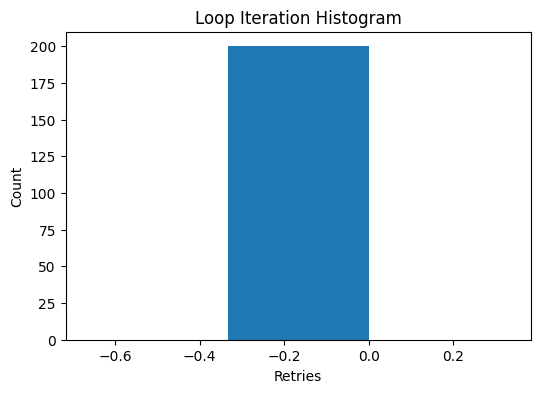
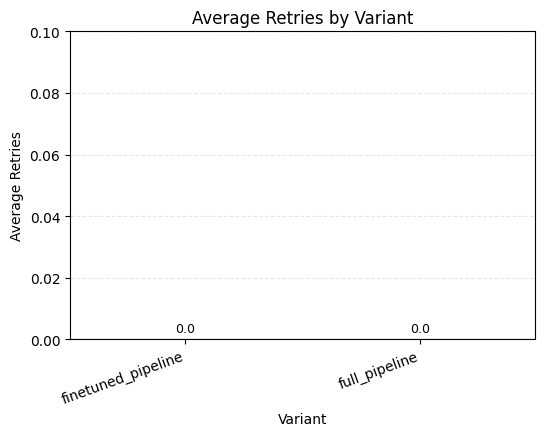
changes plot

diff --git a/src/evaluation/plot_results.py b/src/evaluation/plot_results.py
@@ -114,28 +114,57 @@ def _plot_bertscore_distribution(model_free: pd.DataFrame, bert: pd.DataFrame) -
 
 def _plot_loop_iterations(model_free: pd.DataFrame, summary: pd.DataFrame) -> None:
     fig, ax = plt.subplots(figsize=(6, 4))
-    retry_col = "avg_retries" if "avg_retries" in model_free.columns else "retry_count" if "retry_count" in model_free.columns else None
-
-    if retry_col is not None:
-        retry_values = pd.to_numeric(model_free[retry_col], errors="coerce").dropna()
-        if not retry_values.empty:
-            ax.hist(retry_values, bins=max(int(retry_values.max()) + 3, 1), align="left")
-            ax.set_title("Loop Iteration Histogram")
-            ax.set_xlabel("Retries")
-            ax.set_ylabel("Count")
-            fig.savefig(FIGURES / "loop_iterations.png", bbox_inches="tight")
-            plt.close(fig)
-            return
-
     frame = _summary_metric_frame(summary, ["avg_retries"])
     if not frame.empty:
-        ax.bar(frame["variant"], frame["avg_retries"])
+        frame = frame.sort_values("variant")
+        bars = ax.bar(frame["variant"], frame["avg_retries"], color="#4C72B0")
+        for bar, value in zip(bars, frame["avg_retries"].tolist()):
+            ax.annotate(
+                f"{value:.1f}",
+                (bar.get_x() + bar.get_width() / 2, max(bar.get_height(), 0.0)),
+                ha="center",
+                va="bottom",
+                fontsize=9,
+                xytext=(0, 3),
+                textcoords="offset points",
+            )
         ax.set_title("Average Retries by Variant")
         ax.set_xlabel("Variant")
         ax.set_ylabel("Average Retries")
+        ax.set_ylim(0, max(0.1, float(frame["avg_retries"].max()) + 0.1))
+        ax.axhline(0, color="black", linewidth=0.8)
+        ax.grid(axis="y", linestyle="--", alpha=0.3)
         plt.xticks(rotation=20, ha="right")
     else:
-        ax.set_title("Average Retries by Variant")
+        retry_col = "avg_retries" if "avg_retries" in model_free.columns else "retry_count" if "retry_count" in model_free.columns else None
+        if retry_col is not None:
+            retry_values = pd.to_numeric(model_free[retry_col], errors="coerce").dropna()
+            if not retry_values.empty:
+                buckets = {
+                    "0": int((retry_values == 0).sum()),
+                    "1": int((retry_values == 1).sum()),
+                    "2+": int((retry_values >= 2).sum()),
+                }
+                bars = ax.bar(buckets.keys(), buckets.values(), color="#4C72B0")
+                for bar, value in zip(bars, buckets.values()):
+                    ax.annotate(
+                        str(value),
+                        (bar.get_x() + bar.get_width() / 2, bar.get_height()),
+                        ha="center",
+                        va="bottom",
+                        fontsize=9,
+                        xytext=(0, 3),
+                        textcoords="offset points",
+                    )
+                ax.set_ylabel("Count")
+                ax.set_xlabel("Retries")
+                ax.set_title("Retry Count Distribution")
+                ax.set_ylim(0, max(1, max(buckets.values()) + 1))
+                ax.grid(axis="y", linestyle="--", alpha=0.3)
+            else:
+                ax.set_title("Average Retries by Variant")
+        else:
+            ax.set_title("Average Retries by Variant")
     fig.savefig(FIGURES / "loop_iterations.png", bbox_inches="tight")
     plt.close(fig)
 
